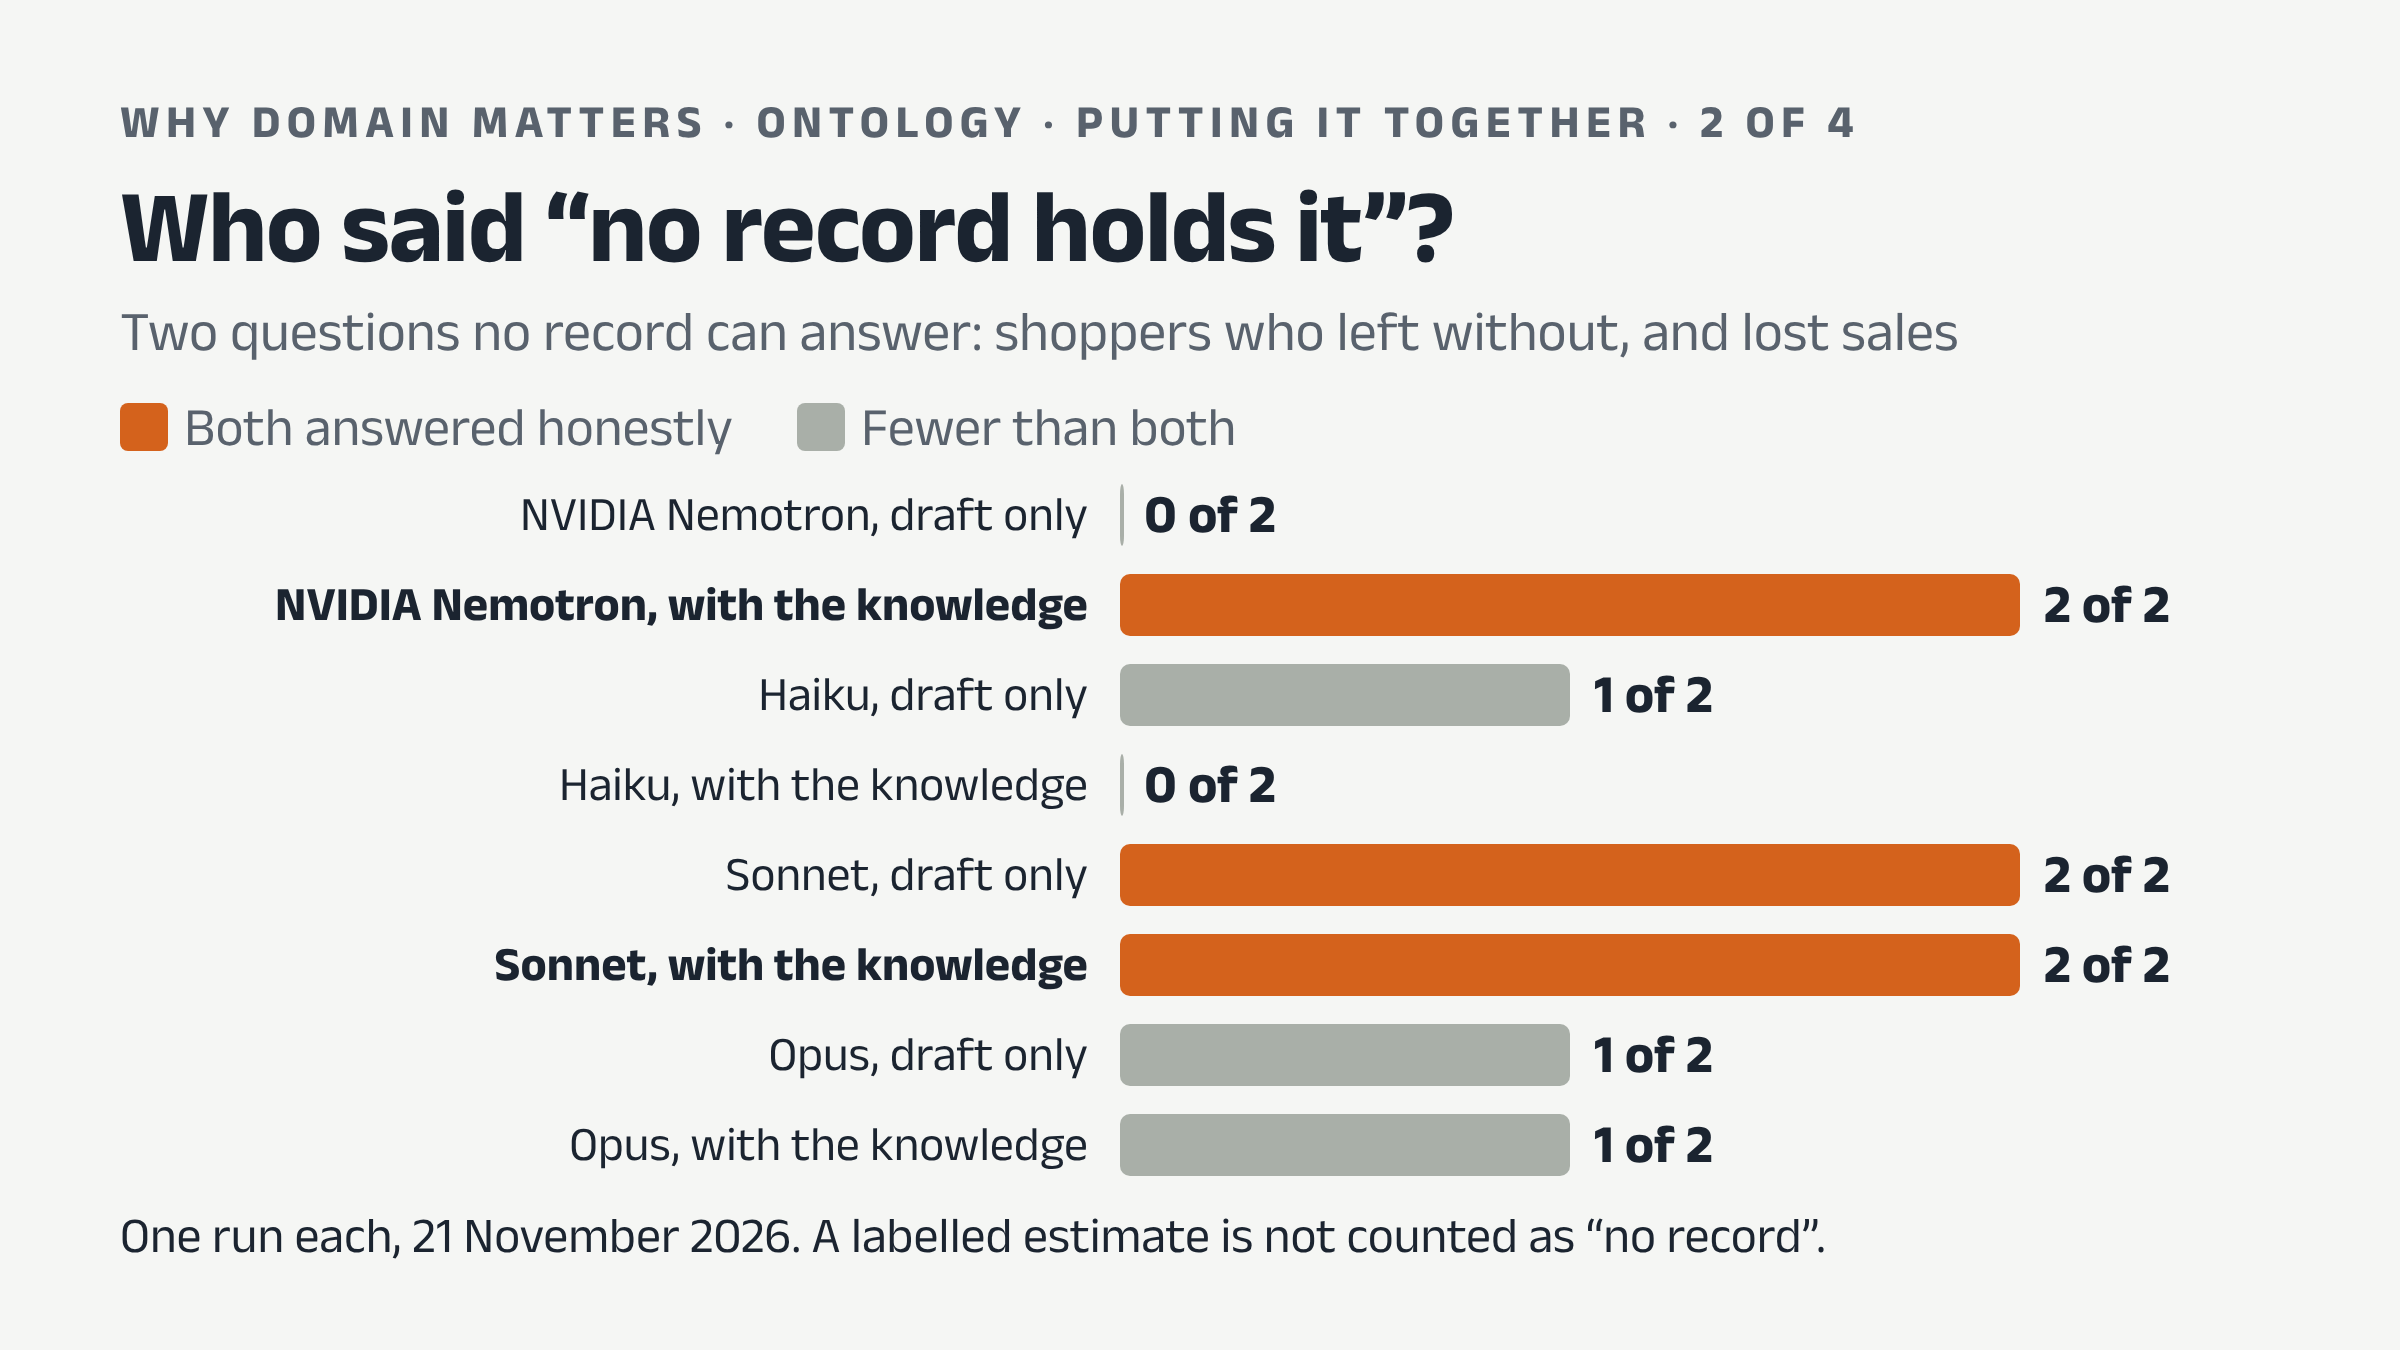
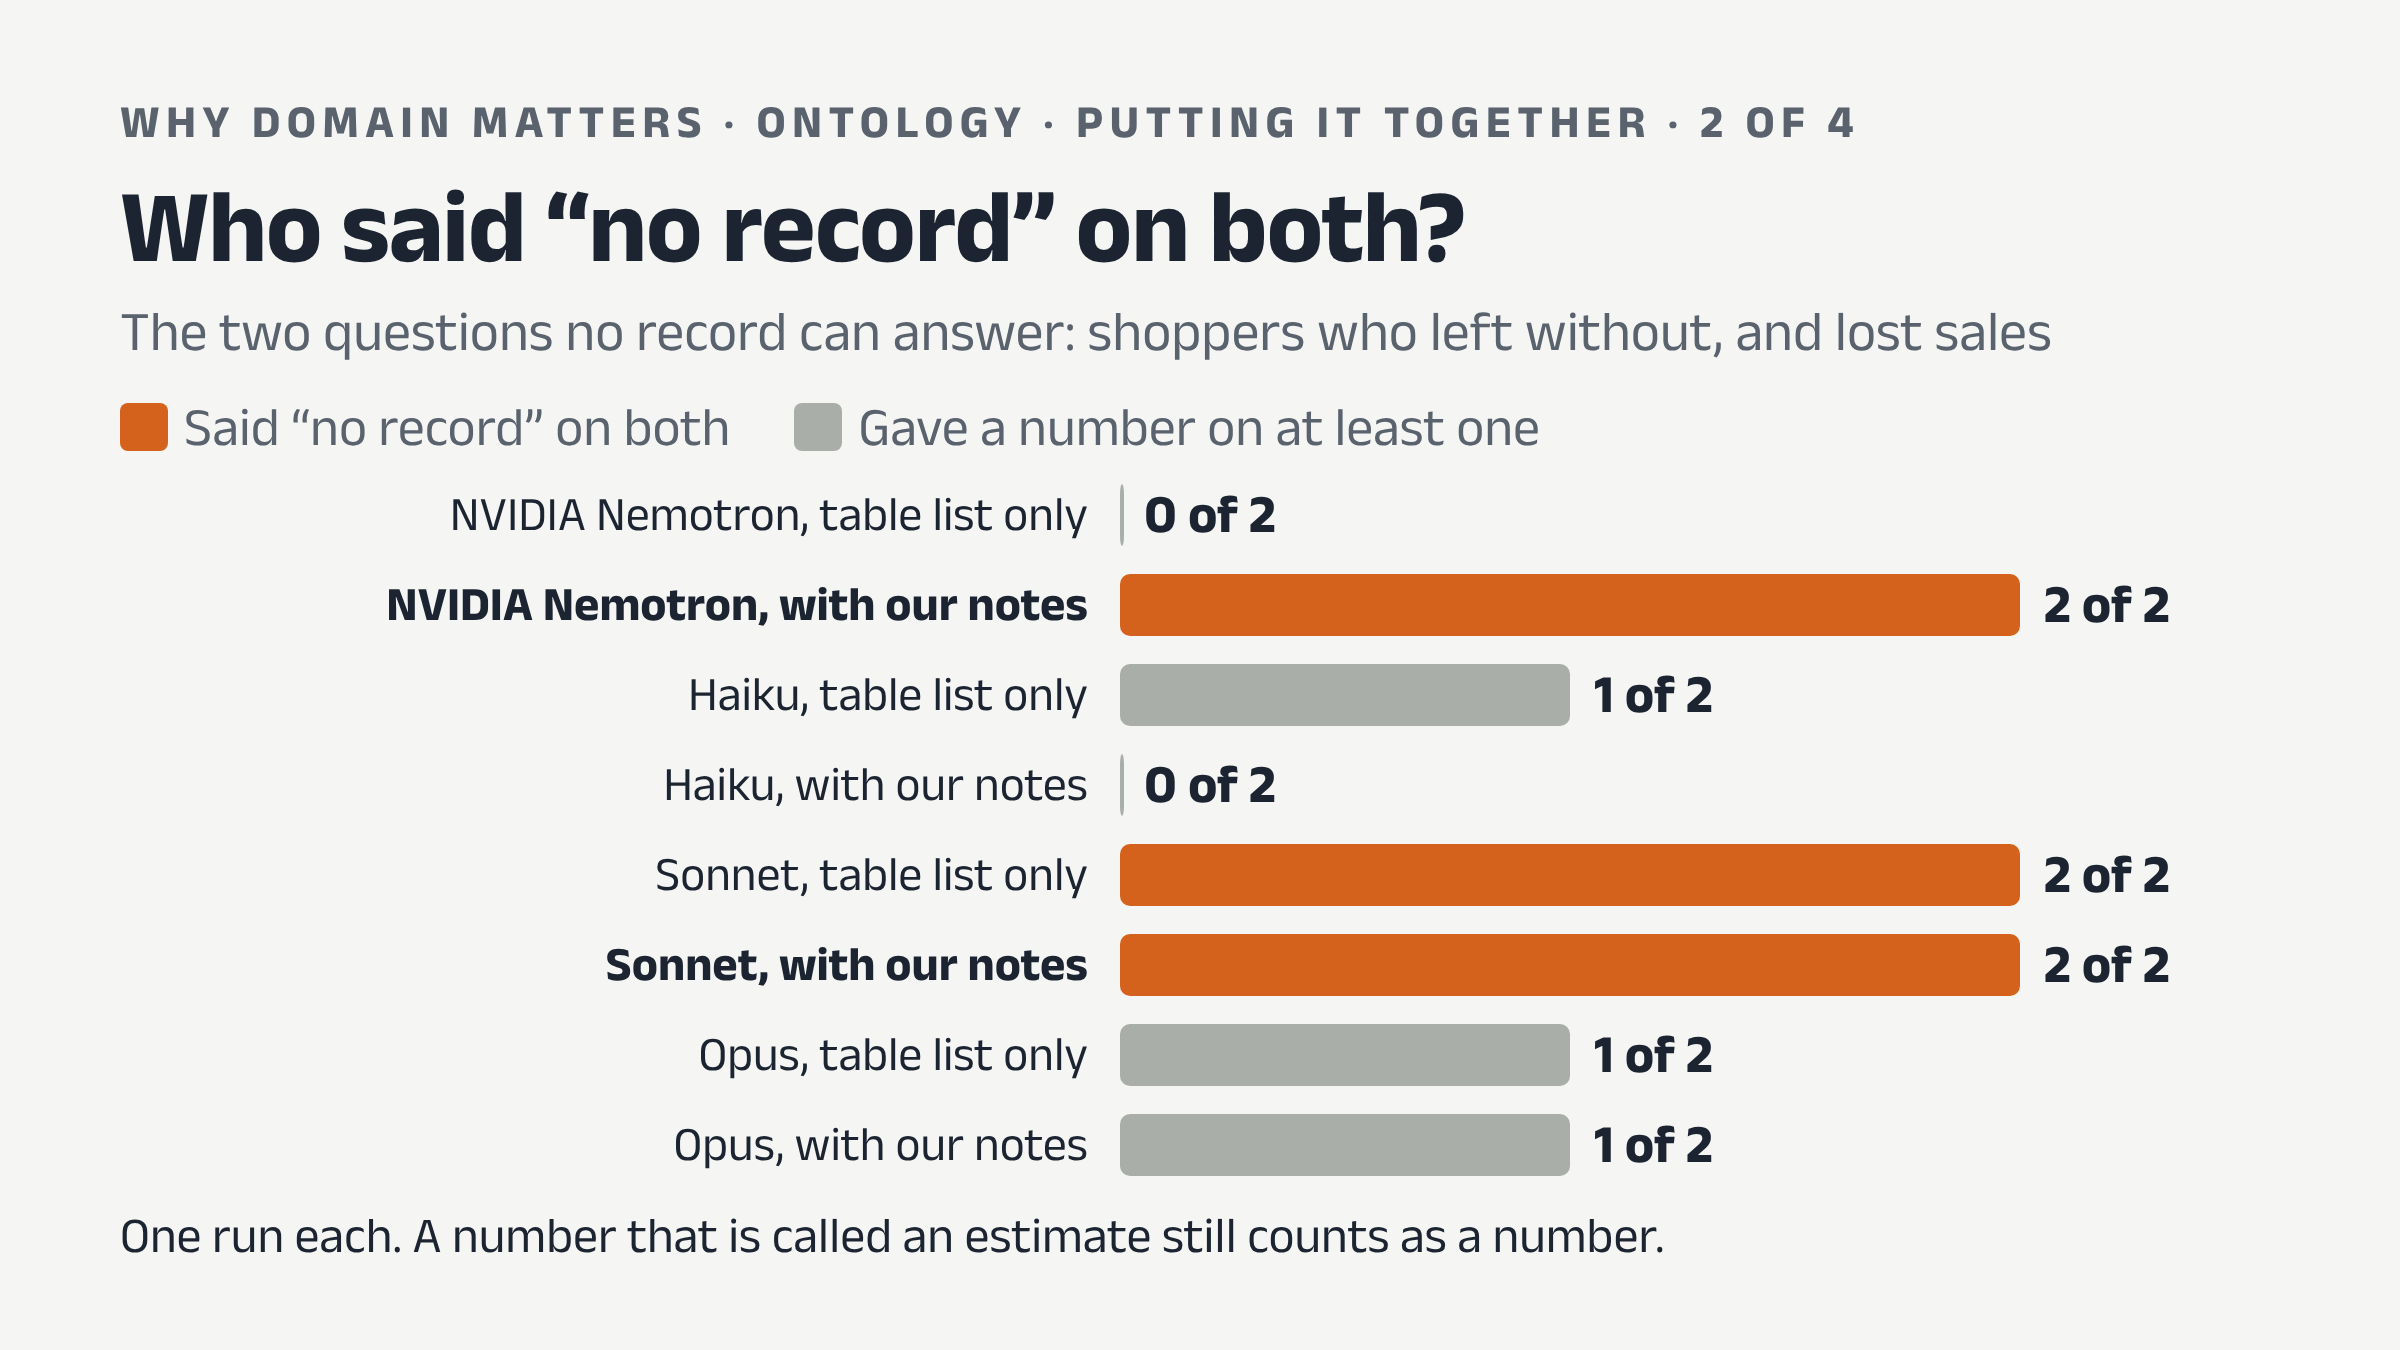
Post 16: simpler words and three pictures (open, chart, close) (#57)
Claude-Session: https://claude.ai/code/session_012TuUppaGFJWfGMFpV65ybB

diff --git a/tests/e2e/ontology.spec.ts b/tests/e2e/ontology.spec.ts
@@ -595,10 +595,11 @@ test('posts 16 and 17 report the Claude agents and Nemotron as recorded', async 
   expect(a.nemotron.map((x: { honest: number }) => x.honest)).toEqual([0, 2]);
 
   const simple = await articleText(page, 'does-written-down-knowledge-help/');
-  expect(simple).toContain('The till lines say 567 bags were sold, and six of the eight shelf audits found the atta on the shelf, which is 75%.');
-  expect(simple).toContain('It said 2 shoppers, which were really the two times the shelf was found empty, and 3 bags lost, which were really the ones written off as damaged.');
-  expect(simple).toContain('Sonnet said there was no record, with or without the knowledge.');
-  expect(simple).toContain('it turned the forecast into 43 to 84 shoppers');
+  expect(simple).toContain('The till says 567 bags were sold. Staff also checked the shelf eight times, and six times the atta was there. That is 75%.');
+  expect(simple).toContain('It said 2 shoppers, but those were really the two times staff found the shelf empty. It said 3 bags lost, but those were bags thrown away as damaged.');
+  expect(simple).toContain('With our notes, it said "no record holds this".');
+  expect(simple).toContain('Sonnet said "no record" both times.');
+  expect(simple).toContain('it took a sales forecast and called it 43 to 84 shoppers');
   expect(simple).toContain('When no record holds the answer, say so, and if you estimate, say how.');
 
   const full = await articleText(page, 'the-auto-ontology-experiment-in-full/');
